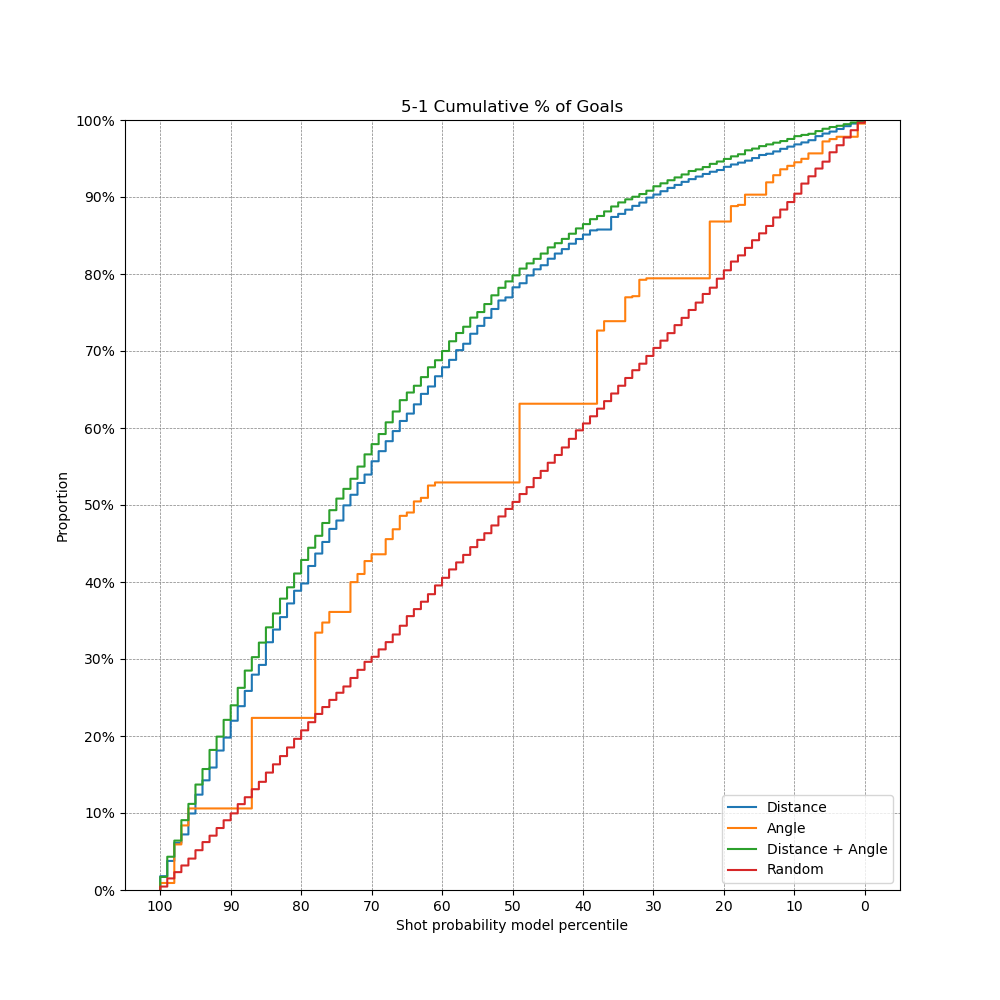
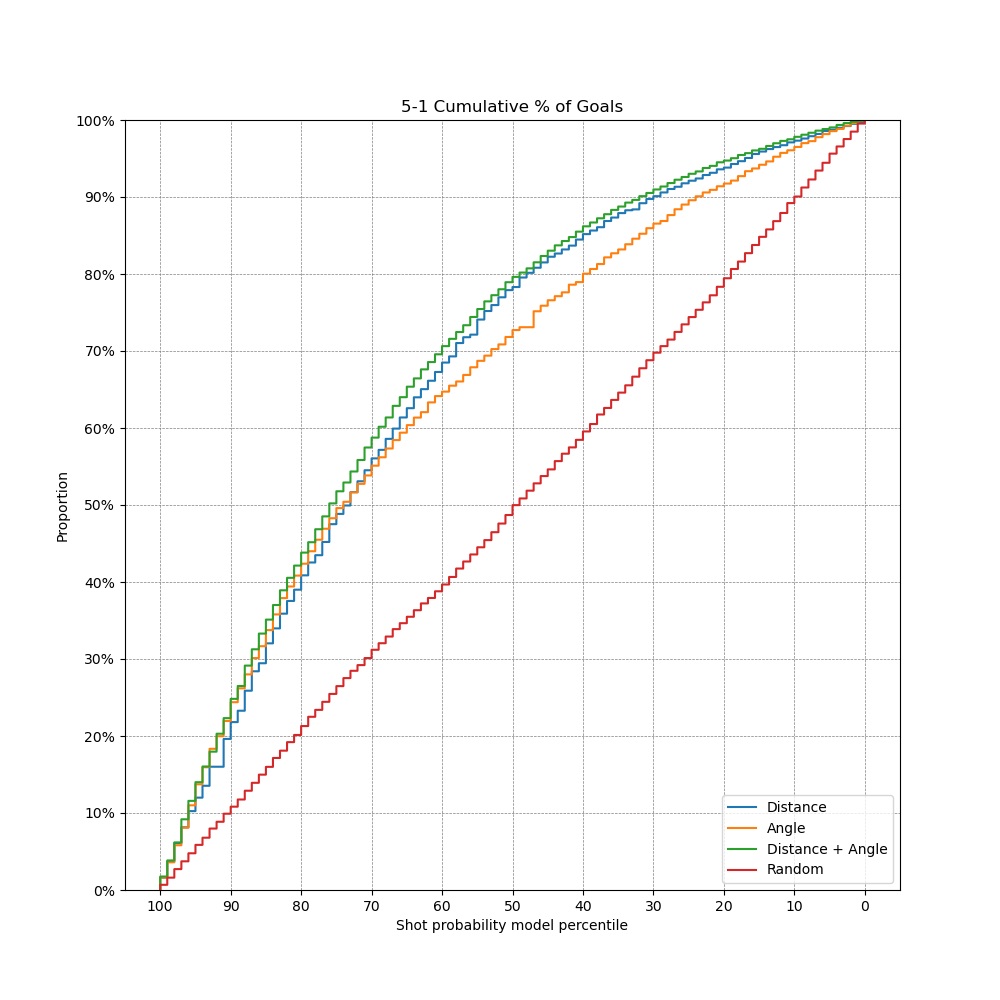
Current state of changes

diff --git a/ift6758/models/xgb/5_2.py b/ift6758/models/xgb/5_2.py
@@ -1,13 +1,15 @@
-import pickle
 # import utils
 import sys
 
-from comet_ml import Experiment
-from sklearn.metrics import accuracy_score
+import optuna
+import xgboost as xgb
+from optuna.integration import XGBoostPruningCallback
+from sklearn.metrics import accuracy_score, roc_auc_score
 from sklearn.metrics import make_scorer
 from sklearn.model_selection import GridSearchCV
-from sklearn.model_selection import train_test_split
+from sklearn.model_selection import StratifiedKFold
 from xgboost import XGBClassifier
+from pprint import pprint
 
 # import figure plot
 from create_figure import *
@@ -18,76 +20,19 @@ sys.path.append(utils_path)
 from ift6758.models.utils import *
 import os
 from dotenv import load_dotenv
+
 load_dotenv()
-COMET_API_KEY = os.getenv('COMET_API_KEY') 
+COMET_API_KEY = os.getenv('COMET_API_KEY')
 
-def xgb_grid_search(X_train, X_val, y_train, y_val, samp_per):
-    '''
-    Grid search for the best hyper parameter
-    because database too large, random sampling x% of train, val for searching param
-        0.1: random sampling 10% of train, val
-        1  : do not sampling database
-    ''' 
-    rng = np.random.default_rng()
-    # random sampling
-    if samp_per < 1:
-        sample_train = rng.choice(X_train.shape[0], size = round(X_train.shape[0]*samp_per), replace=False)
-        sample_val   = rng.choice(X_val.shape[0], size = round(X_val.shape[0]*samp_per), replace=False)
-        
-        X_train = X_train[sample_train, :]
-        y_train = y_train[sample_train]
-        X_val = X_val[sample_val, :]
-        y_val = y_val[sample_val]
+feature = ['period', 'x_coordinate', 'y_coordinate',
+           'game_time(s)', 'prev_event_x', 'prev_event_y',
+           'time_since_prev_event', 'is_rebound', 'distance_to_prev_event',
+           'speed_since_prev_event', 'shot_distance', 'shot_angle',
+           'change_in_angle', 'shot_type', 'prev_event_type']
 
-    
-    xgb = XGBClassifier(objective='binary:logistic', eval_metric = 'error')
-    
-    params = {
-            'min_child_weight': [1],
-            'gamma': [0.5],
-            'subsample': [0.7],
-            'learning_rate': [0.01, 0.1, 0.2],
-            'colsample_bytree': [0.4, 0.6, 0.8],
-            'max_depth': [4, 5, 6],
-            'n_estimators': [400, 700, 1000],
-            'reg_alpha': [1.3],
-            'reg_lambda': [1.1]
-            }
-    
-    grid_search = GridSearchCV(
-        estimator=xgb,
-        param_grid=params,
-        scoring = make_scorer(accuracy_score),
-        n_jobs = 10,
-        cv = 5,
-        verbose=True
-    )
-    
-    model = grid_search.fit(X_train, y_train)
 
-    predict = model.predict(X_val)
-    accuracy = accuracy_score(y_val, predict)
-    print('Best AUC Score: {}'.format(model.best_score_))
-    print('Accuracy: {}'.format(accuracy))
-    
-    print(model.best_params_)
-    
-
-    return model, accuracy
-
-def main():
-    '''
-    grid search for the best model
-    save figures for the best parameter
-    save model, hyperparameter
-    '''
-    feature = ['period','x_coordinate','y_coordinate',
-                'game_time(s)','prev_event_x','prev_event_y',
-                'time_since_prev_event','is_rebound','distance_to_prev_event',
-                'speed_since_prev_event','shot_distance','shot_angle',
-                'change_in_angle','shot_type','prev_event_type']
-
-    X_train, y_train, X_val, y_val, X_test, y_test = load_data(
+def objective(trial):
+    X, y, _, _ = load_data(
         features=feature,
         train_val_seasons=DEFAULT_TRAIN_SEASONS,
         test_season=DEFAULT_TEST_SEASONS,
@@ -98,57 +43,217 @@ def main():
         convert_bool_to_int=True,
         one_hot_encode_categoricals=True
     )
+    X.fillna(0)
+    # dropping NAN removes about ~ 4% of the data and reduces dimensionality by 6, I think its a worthwhile trade-off.
 
-    # fill NaN (as mention in section 2 NaN = 0)
-    X_train = X_train.fillna(0)
-    X_val = X_val.fillna(0)
-    X_test = X_test.fillna(0)
-    
-    
-    model, accuracy = xgb_grid_search(X_train, X_val, y_train, y_val, 1)
-    
-    xgb_model = XGBClassifier(
-        colsample_bytree =  model.best_params_['colsample_bytree'],
-        gamma            =  model.best_params_['gamma'],
-        learning_rate    =  model.best_params_['learning_rate'],
-        max_depth        =  model.best_params_['max_depth'],
-        min_child_weight =  model.best_params_['min_child_weight'],
-        n_estimators     =  model.best_params_['n_estimators'],
-        reg_alpha        =  model.best_params_['reg_alpha'],
-        reg_lambda       =  model.best_params_['reg_lambda'],
-        subsample        =  model.best_params_['subsample'],
-        use_label_encoder=  False,
-        objective        =  'binary:logistic',
-        eval_metric      =  'error'
+    param_grid = {
+        "silent": 1,
+        "objective": "binary:logistic",
+        "eval_metric": "auc",
+        "booster": trial.suggest_categorical("booster", ["gbtree", "gblinear", "dart"]),
+        "lambda": trial.suggest_loguniform("lambda", 1e-8, 1.0),
+        "alpha": trial.suggest_loguniform("alpha", 1e-8, 1.0),
+    }
+
+    if param_grid["booster"] == "gbtree" or param_grid["booster"] == "dart":
+        param_grid["max_depth"] = trial.suggest_int("max_depth", 1, 9)
+        param_grid["eta"] = trial.suggest_loguniform("eta", 1e-8, 1.0)
+        param_grid["gamma"] = trial.suggest_loguniform("gamma", 1e-8, 1.0)
+        param_grid["grow_policy"] = trial.suggest_categorical("grow_policy", ["depthwise", "lossguide"])
+    if param_grid["booster"] == "dart":
+        param_grid["sample_type"] = trial.suggest_categorical("sample_type", ["uniform", "weighted"])
+        param_grid["normalize_type"] = trial.suggest_categorical("normalize_type", ["tree", "forest"])
+        param_grid["rate_drop"] = trial.suggest_loguniform("rate_drop", 1e-8, 1.0)
+        param_grid["skip_drop"] = trial.suggest_loguniform("skip_drop", 1e-8, 1.0)
+
+    cv = StratifiedKFold(n_splits=3, shuffle=True, random_state=0)
+    cv_scores = np.empty(3)
+    for idx, (train_idx, val_idx) in enumerate(cv.split(X, y)):
+        train = xgb.DMatrix(X.iloc[train_idx], label=y[train_idx])
+        val = xgb.DMatrix(X.iloc[val_idx], label=y[val_idx])
+
+        # Add a callback for pruning.
+        clf = xgb.train(param_grid, train, evals=[(val, "validation")],
+                        callbacks=[XGBoostPruningCallback(trial, "validation-auc")])
+        y_preds = clf.predict(val)
+        pred_labels = np.rint(y_preds)
+        score = roc_auc_score(y[val_idx], pred_labels)
+        cv_scores[idx] = score
+    return np.mean(cv_scores)
+
+
+def xgb_grid_search(X_train, X_val, y_train, y_val, samp_per):
+    '''
+    Grid search for the best hyper parameter
+    because database too large, random sampling x% of train, val for searching param
+        0.1: random sampling 10% of train, val
+        1  : do not sampling database
+    '''
+    rng = np.random.default_rng()
+    # random sampling
+    if samp_per < 1:
+        sample_train = rng.choice(X_train.shape[0], size=round(X_train.shape[0] * samp_per), replace=False)
+        sample_val = rng.choice(X_val.shape[0], size=round(X_val.shape[0] * samp_per), replace=False)
+
+        X_train = X_train[sample_train, :]
+        y_train = y_train[sample_train]
+        X_val = X_val[sample_val, :]
+        y_val = y_val[sample_val]
+
+    xgb = XGBClassifier(objective='binary:logistic', eval_metric='error')
+
+    params = {
+        'min_child_weight': [1],
+        'gamma': [0.5],
+        'subsample': [0.7],
+        'learning_rate': [0.01, 0.1, 0.2],
+        'colsample_bytree': [0.4, 0.6, 0.8],
+        'max_depth': [4, 5, 6],
+        'n_estimators': [400, 700, 1000],
+        'reg_alpha': [1.3],
+        'reg_lambda': [1.1]
+    }
+
+    grid_search = GridSearchCV(
+        estimator=xgb,
+        param_grid=params,
+        scoring=make_scorer(accuracy_score),
+        n_jobs=10,
+        cv=5,
+        verbose=True
     )
-    
-    xgb_model.fit(X_train, y_train)
-    
-    y_pred = xgb_model.predict_proba(X_val)[:,1]
-    
-    y_val_vec = [y_val]
+
+    model = grid_search.fit(X_train, y_train)
+
+    predict = model.predict(X_val)
+    accuracy = accuracy_score(y_val, predict)
+    print('Best AUC Score: {}'.format(model.best_score_))
+    print('Accuracy: {}'.format(accuracy))
+
+    print(model.best_params_)
+
+    return model, accuracy
+
+
+def main():
+    '''
+    grid search for the best model
+    save figures for the best parameter
+    save model, hyperparameter
+    '''
+    study = optuna.create_study(direction="maximize", study_name="XGB Classifier")
+    func = lambda trial: objective(trial)
+    study.optimize(func, n_trials=100)
+    print(f"\tBest params:")
+
+    pprint(study.best_params)
+    params = study.best_params
+    X_train, y_train, X_test, y_test = load_data(
+        features=feature,
+        train_val_seasons=DEFAULT_TRAIN_SEASONS,
+        test_season=DEFAULT_TEST_SEASONS,
+        do_split_val=False,
+        target='is_goal',
+        use_standard_scaler=True,
+        drop_all_na=False,
+        convert_bool_to_int=True,
+        one_hot_encode_categoricals=True
+    )
+    model = XGBClassifier(objective='binary:logistic', **params)
+
+    model.fit(X_train, y_train)
+
+    y_pred = model.predict_proba(X_test)[:, 1]
+
+    y_val_vec = [y_test]
     y_pred_vec = [y_pred]
     fig_name = ['5_2_xgb_gs']
-    fig_roc_auc(y_val_vec, y_pred_vec, fig_name)
-    fig_cumulative_goal(y_val_vec, y_pred_vec, fig_name)
-    fig_goal_rate(y_val_vec, y_pred_vec, fig_name)
-    calibration_fig(y_val_vec, y_pred_vec, fig_name)
-    # save xgb_model
-    file_name = "xgb_model.pkl"
-    # save
-    pickle.dump(model, open(file_name, "wb"))
-    
-    # load
-    model_loaded = pickle.load(open(file_name, "rb"))
+    fig_roc_auc(y_val_vec, y_pred_vec, '5-2')
+    fig_cumulative_goal(y_val_vec, y_pred_vec, '5-2')
+    fig_goal_rate(y_val_vec, y_pred_vec, '5-2')
+    calibration_fig(y_val_vec, y_pred_vec, '5-2')
+    # # save xgb_model
+    # file_name = "xgb_model.pkl"
+    # # save
+    # pickle.dump(model, open(file_name, "wb"))
+    #
+    # # load
+    # model_loaded = pickle.load(open(file_name, "rb"))
+    #
+    # experiment = Experiment(
+    #     api_key=COMET_API_KEY,
+    #     project_name="ift-6758-milestone-2",
+    #     workspace="vanbinhtruong",
+    # )
+    # experiment.log_parameters(xgb_model.get_params())
+    # experiment.log_metric("accuracy", accuracy)
+    # experiment.log_model('5_2 grid search model', 'xgb_model.pkl')
 
-    experiment = Experiment(
-        api_key=COMET_API_KEY,
-        project_name="ift-6758-milestone-2",
-        workspace="vanbinhtruong",
-    )
-    experiment.log_parameters(xgb_model.get_params())
-    experiment.log_metric("accuracy", accuracy)
-    experiment.log_model('5_2 grid search model', 'xgb_model.pkl')
+
+
+    # -- Van's code below ----
+    # X_train, y_train, X_val, y_val, X_test, y_test = load_data(
+    #     features=feature,
+    #     train_val_seasons=DEFAULT_TRAIN_SEASONS,
+    #     test_season=DEFAULT_TEST_SEASONS,
+    #     do_split_val=False,
+    #     target='is_goal',
+    #     use_standard_scaler=True,
+    #     drop_all_na=False,
+    #     convert_bool_to_int=True,
+    #     one_hot_encode_categoricals=True
+    # )
+    #
+    # # fill NaN (as mention in section 2 NaN = 0)
+    # X_train = X_train.fillna(0)
+    # X_val = X_val.fillna(0)
+    # X_test = X_test.fillna(0)
+    #
+    # model, accuracy = xgb_grid_search(X_train, X_val, y_train, y_val, 1)
+    #
+    # xgb_model = XGBClassifier(
+    #     colsample_bytree=model.best_params_['colsample_bytree'],
+    #     gamma=model.best_params_['gamma'],
+    #     learning_rate=model.best_params_['learning_rate'],
+    #     max_depth=model.best_params_['max_depth'],
+    #     min_child_weight=model.best_params_['min_child_weight'],
+    #     n_estimators=model.best_params_['n_estimators'],
+    #     reg_alpha=model.best_params_['reg_alpha'],
+    #     reg_lambda=model.best_params_['reg_lambda'],
+    #     subsample=model.best_params_['subsample'],
+    #     use_label_encoder=False,
+    #     objective='binary:logistic',
+    #     eval_metric='error'
+    # )
+    #
+    # xgb_model.fit(X_train, y_train)
+    #
+    # y_pred = xgb_model.predict_proba(X_val)[:, 1]
+    #
+    # y_val_vec = [y_val]
+    # y_pred_vec = [y_pred]
+    # fig_name = ['5_2_xgb_gs']
+    # fig_roc_auc(y_val_vec, y_pred_vec, fig_name)
+    # fig_cumulative_goal(y_val_vec, y_pred_vec, fig_name)
+    # fig_goal_rate(y_val_vec, y_pred_vec, fig_name)
+    # calibration_fig(y_val_vec, y_pred_vec, fig_name)
+    # # save xgb_model
+    # file_name = "xgb_model.pkl"
+    # # save
+    # pickle.dump(model, open(file_name, "wb"))
+    #
+    # # load
+    # model_loaded = pickle.load(open(file_name, "rb"))
+    #
+    # experiment = Experiment(
+    #     api_key=COMET_API_KEY,
+    #     project_name="ift-6758-milestone-2",
+    #     workspace="vanbinhtruong",
+    # )
+    # experiment.log_parameters(xgb_model.get_params())
+    # experiment.log_metric("accuracy", accuracy)
+    # experiment.log_model('5_2 grid search model', 'xgb_model.pkl')
+
 
 if __name__ == "__main__":
     main()

diff --git a/ift6758/models/utils.py b/ift6758/models/utils.py
@@ -52,8 +52,11 @@ def load_data(features: List[str], train_val_seasons: List[str] = None, test_sea
     # drop all NAN rows
     if drop_all_na:
         train = train.dropna(subset=features)
+        train = train.reset_index()
         val = val.dropna(subset=features)
+        val = val.reset_index()
         test = test.dropna(subset=features)
+        test = test.reset_index()
 
     # Split X, y
     X_train, y_train = train.drop(train.columns.difference(features), axis=1), train[target]

diff --git a/ift6758/models/xgb/5_1.py b/ift6758/models/xgb/5_1.py
@@ -28,9 +28,8 @@ def main():
 		test_season=DEFAULT_TEST_SEASONS,
 		train_val_ratio=0.2,
 		target='is_goal',
-		use_standard_scaler=True,
-		return_as_dataframes=True,
-		drop_all_na=False
+		use_standard_scaler=False,
+		drop_all_na=True
 	)
 	y_pred_vec = []
 	FEATURES_LIST = [['shot_distance'], ['shot_angle'], ['shot_distance', 'shot_angle']]
